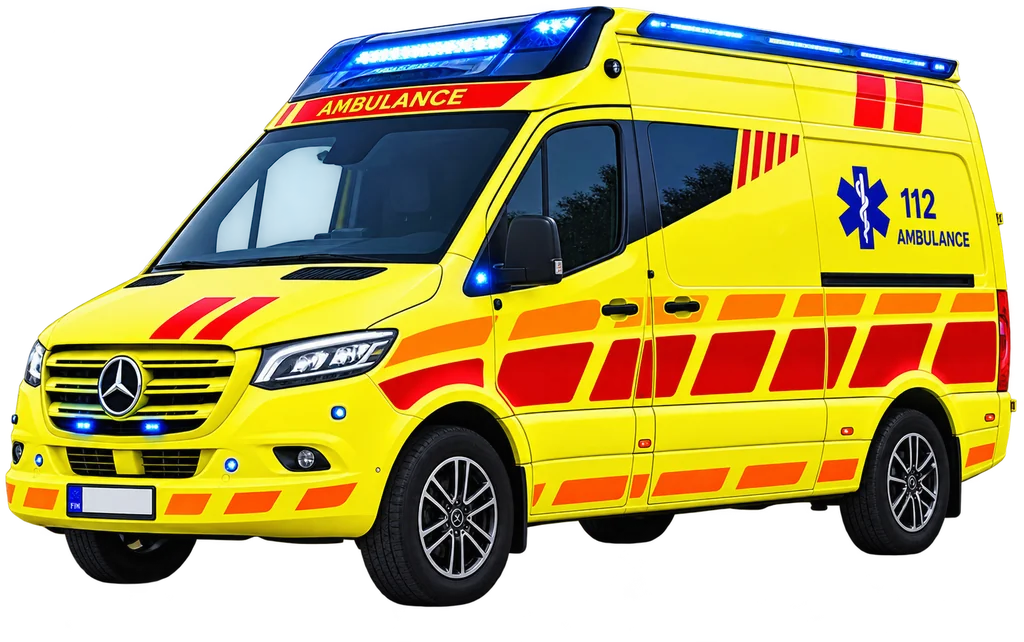
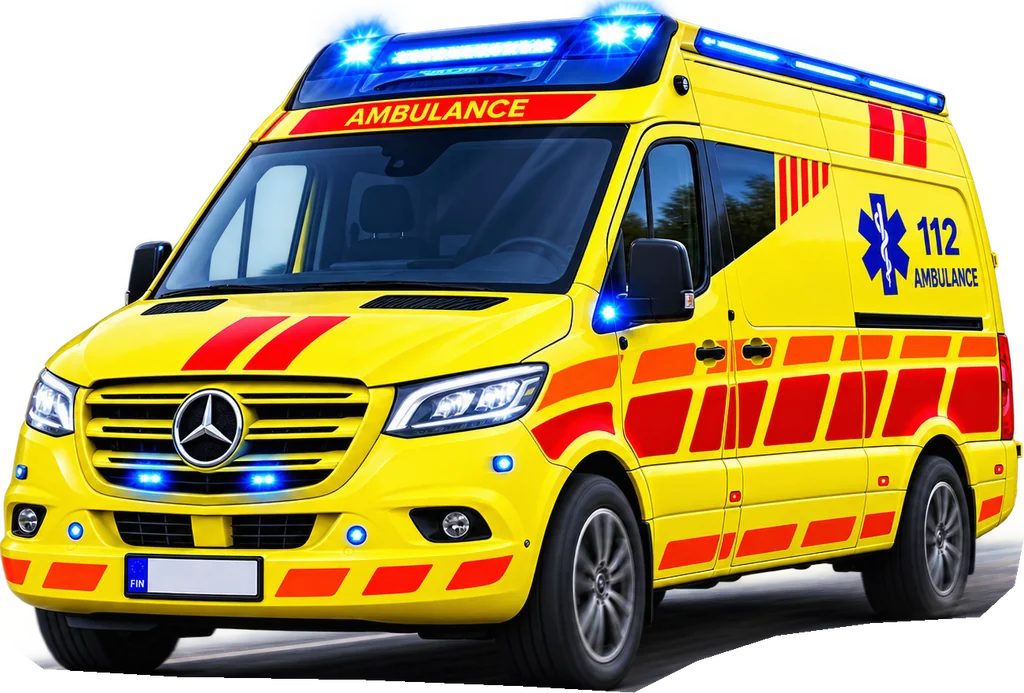
Sote-tarinan kysymykset ja kuvat muokattu

diff --git a/pelit/koulutusalat/sote.html b/pelit/koulutusalat/sote.html
@@ -170,14 +170,14 @@ TarinaYhteinen.alusta(setup, {
  },
  "kutsuKortit": [
   {
-   "tilanne": "Isoäiti tarvitsee joka aamu apua pukeutumisessa ja lääkkeiden ottamisessa. Hän haluaa asua kotona.",
-   "oikea": "Lähihoitaja",
-   "tutkinto": "Sosiaali- ja terveysalan perustutkinto (lähihoitaja)",
+   "tilanne": "Kahdeksannella luokalla on vuorossa koulun terveystarkastus. Siinä tarkistetaan kasvu ja voit kysyä omasta terveydestäsi.",
+   "oikea": "Kouluterveydenhoitaja",
+   "tutkinto": "Terveydenhoitaja (AMK), ammattikorkeakoulu",
    "vaihtoehdot": {
-    "Lähihoitaja": "Kotihoidon lähihoitaja käy asiakkaan luona, auttaa arjessa ja huolehtii lääkkeistä. Näin moni ikäihminen voi asua kotona pidempään.",
-    "Fysioterapeutti": "Fysioterapeutti auttaa liikkumisessa ja kuntoutuksessa. Päivittäinen apu kotona kuuluu kotihoidon lähihoitajalle.",
-    "Lääkäri": "Lääkäri määrää lääkkeet, mutta ei käy auttamassa joka aamu. Sen tekee lähihoitaja.",
-    "Sosionomi": "Sosionomi auttaa esimerkiksi palvelujen ja tukien hakemisessa. Arjen hoitotyön tekee lähihoitaja."
+    "Kouluterveydenhoitaja": "Kouluterveydenhoitaja tekee koulun terveystarkastukset ja rokotukset. Hänen kanssaan voi jutella myös jaksamisesta ja omasta terveydestä.",
+    "Lähihoitaja": "Lähihoitaja auttaa hoitotyössä esimerkiksi sairaalassa tai kotihoidossa. Koulun terveystarkastukset tekee terveydenhoitaja.",
+    "Kuraattori": "Kuraattori auttaa kaverisuhteiden ja koulunkäynnin pulmissa. Terveystarkastukset kuuluvat terveydenhoitajalle.",
+    "Fysioterapeutti": "Fysioterapeutti auttaa liikkumisessa ja kuntoutuksessa. Terveystarkastukset tekee terveydenhoitaja."
    }
   },
   {
@@ -247,14 +247,14 @@ TarinaYhteinen.alusta(setup, {
    }
   },
   {
-   "tilanne": "Perhe on juuri muuttanut uuteen kaupunkiin. He tarvitsevat apua asunnon, tukien ja palvelujen löytämisessä.",
-   "oikea": "Sosionomi",
-   "tutkinto": "Sosionomi (AMK), ammattikorkeakoulu",
+   "tilanne": "Kaverisuhteet ovat menneet solmuun, ja kouluun lähteminen tuntuu raskaalta. Kenen koulun ammattilaisen kanssa voit jutella asiasta?",
+   "oikea": "Kuraattori",
+   "tutkinto": "Sosionomi (AMK) tai muu soveltuva korkeakoulututkinto",
    "vaihtoehdot": {
-    "Lähihoitaja": "Lähihoitaja hoitaa ja auttaa arjessa, mutta palveluohjaus ja tukien hakeminen kuuluvat sosionomille.",
-    "Sairaanhoitaja": "Sairaanhoitaja hoitaa terveyttä. Asumisen ja tukien asiat hoitaa sosionomi.",
-    "Fysioterapeutti": "Fysioterapeutti auttaa liikkumisessa. Asunto- ja tukiasiat kuuluvat sosionomille.",
-    "Sosionomi": "Sosionomi ohjaa ja tukee ihmisiä arjen asioissa, esimerkiksi tukien ja palvelujen hakemisessa."
+    "Kuraattori": "Kuraattori on koulun sosiaalialan ammattilainen. Hän auttaa, kun kaverisuhteet, koulunkäynti tai kotiasiat painavat mieltä.",
+    "Kouluterveydenhoitaja": "Melkein! Myös terveydenhoitajalle voi kertoa, jos mieltä painaa. Kaverisuhteiden ja koulunkäynnin pulmissa koulun oma asiantuntija on kuraattori.",
+    "Fysioterapeutti": "Fysioterapeutti auttaa liikkumisessa ja kuntoutuksessa. Kaverisuhteiden pulmissa auttaa kuraattori.",
+    "Lähihoitaja": "Lähihoitaja työskentelee esimerkiksi sairaalassa tai kotihoidossa. Koulussa kaverisuhteiden pulmissa auttaa kuraattori."
    }
   }
  ]
@@ -584,10 +584,9 @@ Alla on esimerkkejä sosiaali- ja terveysalan koulutuksista eri puolilta Suomea.
 &lt;&lt;link &quot;Annan Ainolle vettä juotavaksi.&quot;&gt;&gt;&lt;&lt;set $aika += 10&gt;&gt;&lt;&lt;replace &quot;#valinnat&quot;&gt;&gt;&lt;div class=&quot;palaute&quot;&gt;&lt;p&gt;&lt;strong&gt;Aleksi pysäyttää sinut ystävällisesti.&lt;/strong&gt;&lt;/p&gt;&lt;p&gt;Jos Aino tarvitsee leikkauksen, vatsan pitää olla tyhjä. Siksi potilaalle ei anneta juotavaa ennen kuin tiedetään, mikä on vialla.&lt;/p&gt;&lt;p&gt;Aleksi mittaa verenpaineen. Se on matala. Hän nostaa Ainon jalat ylös ja antaa nestettä suoneen.&lt;/p&gt;&lt;p class=&quot;aika-kului&quot;&gt;Aikaa kului 10 min. Seuraavaan paikkaan siirtyminen vie 20 min.&lt;/p&gt;&lt;/div&gt;&lt;&lt;kiinnostus &quot;ensihoitaja&quot; &quot;Päivystys&quot; &quot;Miltä ensihoitajan työ näytti?&quot;&gt;&gt;&lt;&lt;/replace&gt;&gt;&lt;&lt;/link&gt;&gt;
 &lt;&lt;link &quot;Odotan hetken. Ehkä huimaus menee ohi itsestään.&quot;&gt;&gt;&lt;&lt;set $aika += 15&gt;&gt;&lt;&lt;replace &quot;#valinnat&quot;&gt;&gt;&lt;div class=&quot;palaute&quot;&gt;&lt;p&gt;&lt;strong&gt;Aino kalpenee lisää.&lt;/strong&gt;&lt;/p&gt;&lt;p&gt;Onneksi Aleksi huomaa sen itse. Ensihoidossa pienikin muutos kerrotaan heti, koska tilanne voi muuttua nopeasti.&lt;/p&gt;&lt;p&gt;Aleksi mittaa verenpaineen. Se on matala. Hän nostaa Ainon jalat ylös ja antaa nestettä suoneen.&lt;/p&gt;&lt;p class=&quot;aika-kului&quot;&gt;Aikaa kului 15 min. Seuraavaan paikkaan siirtyminen vie 20 min.&lt;/p&gt;&lt;/div&gt;&lt;&lt;kiinnostus &quot;ensihoitaja&quot; &quot;Päivystys&quot; &quot;Miltä ensihoitajan työ näytti?&quot;&gt;&gt;&lt;&lt;/replace&gt;&gt;&lt;&lt;/link&gt;&gt;
 &lt;/div&gt;
-</tw-passagedata><tw-passagedata pid="69" name="Päivystys" tags="scene-paivystys" position="1200,100" size="100,100">&lt;&lt;include &quot;HUD&quot;&gt;&gt;
+</tw-passagedata><tw-passagedata pid="69" name="Päivystys" tags="scene-paivystys" position="1200,100" size="100,100">&lt;&lt;run setup.taustakuva(&quot;../../images/koulutusalat/sote-paivystys-tausta.webp&quot;)&gt;&gt;&lt;&lt;include &quot;HUD&quot;&gt;&gt;
 &lt;p class=&quot;kohtaus-nro&quot;&gt;Kohtaus 4/6&lt;/p&gt;
 &lt;h2&gt;Päivystys&lt;/h2&gt;
-&lt;figure class=&quot;kohtaus-kuva&quot;&gt;&lt;img src=&quot;../../images/koulutusalat/sote-paivystys.webp&quot; alt=&quot;Hoitajat työntävät potilasta paarisängyllä kiireesti sairaalan päivystyksen käytävällä.&quot; width=&quot;447&quot; height=&quot;272&quot; loading=&quot;lazy&quot; decoding=&quot;async&quot;&gt;&lt;/figure&gt;
 &lt;p&gt;Sairaalan päivystyksessä Aino pääsee röntgeniin. Aulaan tulee samaan aikaan kolme uutta potilasta.&lt;/p&gt;
 &lt;p class=&quot;puhe&quot;&gt;&lt;strong&gt;Petra, sairaanhoitaja:&lt;/strong&gt; ”Minun pitää päättää, kuka pääsee hoitoon ensin. Kenet sinä ottaisit ensimmäisenä?”&lt;/p&gt;
 &lt;p class=&quot;valitse-ohje&quot;&gt;Mitä teet?&lt;/p&gt;
@@ -596,10 +595,9 @@ Alla on esimerkkejä sosiaali- ja terveysalan koulutuksista eri puolilta Suomea.
 &lt;&lt;link &quot;Miehen, jolla on puristavaa kipua rinnassa ja joka hikoilee.&quot;&gt;&gt;&lt;&lt;set $aika += 10&gt;&gt;&lt;&lt;set $piirre.tarkka += 2&gt;&gt;&lt;&lt;set $piirre.rauhallinen += 1&gt;&gt;&lt;&lt;replace &quot;#valinnat&quot;&gt;&gt;&lt;div class=&quot;palaute&quot;&gt;&lt;p&gt;&lt;strong&gt;Oikein!&lt;/strong&gt;&lt;/p&gt;&lt;p&gt;Rintakipu ja hikoilu voivat olla sydänkohtauksen merkkejä. Silloin jokainen minuutti on tärkeä.&lt;/p&gt;&lt;p&gt;Tätä kutsutaan hoidon kiireellisyyden arvioinniksi. Se on yksi sairaanhoitajan tärkeistä taidoista.&lt;/p&gt;&lt;p class=&quot;aika-kului&quot;&gt;Aikaa kului 10 min. Seuraavaan paikkaan siirtyminen vie 20 min.&lt;/p&gt;&lt;/div&gt;&lt;&lt;kiinnostus &quot;sairaanhoitaja&quot; &quot;Synnytysosasto&quot; &quot;Miltä sairaanhoitajan työ näytti?&quot;&gt;&gt;&lt;&lt;/replace&gt;&gt;&lt;&lt;/link&gt;&gt;
 &lt;&lt;link &quot;Kuumeisen lapsen, joka leikkii ja juo hyvin.&quot;&gt;&gt;&lt;&lt;set $aika += 15&gt;&gt;&lt;&lt;replace &quot;#valinnat&quot;&gt;&gt;&lt;div class=&quot;palaute&quot;&gt;&lt;p&gt;&lt;strong&gt;Lapsen kuume huolettaa, mutta leikkivä ja juova lapsi voi odottaa hetken.&lt;/strong&gt;&lt;/p&gt;&lt;p&gt;Petra ottaa ensin 60-vuotiaan miehen, jolla on puristavaa kipua rinnassa. Rintakipu voi olla sydänkohtaus, ja silloin jokainen minuutti on tärkeä.&lt;/p&gt;&lt;p class=&quot;aika-kului&quot;&gt;Aikaa kului 15 min. Seuraavaan paikkaan siirtyminen vie 20 min.&lt;/p&gt;&lt;/div&gt;&lt;&lt;kiinnostus &quot;sairaanhoitaja&quot; &quot;Synnytysosasto&quot; &quot;Miltä sairaanhoitajan työ näytti?&quot;&gt;&gt;&lt;&lt;/replace&gt;&gt;&lt;&lt;/link&gt;&gt;
 &lt;/div&gt;
-</tw-passagedata><tw-passagedata pid="70" name="Synnytysosasto" tags="scene-synnytys" position="1200,100" size="100,100">&lt;&lt;include &quot;HUD&quot;&gt;&gt;
+</tw-passagedata><tw-passagedata pid="70" name="Synnytysosasto" tags="scene-synnytys" position="1200,100" size="100,100">&lt;&lt;run setup.taustakuva(&quot;../../images/koulutusalat/sote-osasto-tausta.webp&quot;)&gt;&gt;&lt;&lt;include &quot;HUD&quot;&gt;&gt;
 &lt;p class=&quot;kohtaus-nro&quot;&gt;Kohtaus 5/6&lt;/p&gt;
 &lt;h2&gt;Synnytysosasto&lt;/h2&gt;
-&lt;figure class=&quot;kohtaus-kuva&quot;&gt;&lt;img src=&quot;../../images/koulutusalat/sote-osasto.webp&quot; alt=&quot;Valoisa sairaalaosaston käytävä, jossa on avoimet lasiovet ja potilashuoneiden ovia.&quot; width=&quot;720&quot; height=&quot;457&quot; loading=&quot;lazy&quot; decoding=&quot;async&quot;&gt;&lt;/figure&gt;
 &lt;p&gt;Ainon ranne on kipsattu. Sinut lähetetään viemään papereita synnytysosastolle. Siellä on juuri syntynyt vauva.&lt;/p&gt;
 &lt;p&gt;Vauvan isä katsoo vauvaa huolestuneena ja kysyy sinulta: ”Miksi vauvan kädet ja jalat ovat sinertävät? Onko jotain vialla?”&lt;/p&gt;
 &lt;p class=&quot;valitse-ohje&quot;&gt;Mitä teet?&lt;/p&gt;
@@ -608,10 +606,9 @@ Alla on esimerkkejä sosiaali- ja terveysalan koulutuksista eri puolilta Suomea.
 &lt;&lt;link &quot;Pyydän kätilö Hennan paikalle vastaamaan.&quot;&gt;&gt;&lt;&lt;set $aika += 10&gt;&gt;&lt;&lt;set $piirre.tiimi += 2&gt;&gt;&lt;&lt;set $piirre.tarkka += 1&gt;&gt;&lt;&lt;replace &quot;#valinnat&quot;&gt;&gt;&lt;div class=&quot;palaute&quot;&gt;&lt;p&gt;&lt;strong&gt;Hyvin toimittu!&lt;/strong&gt;&lt;/p&gt;&lt;p&gt;Henna selittää: vastasyntyneen kädet ja jalat ovat usein sinertävät ensimmäisinä päivinä, koska verenkierto vasta tasaantuu. Kasvot ja vartalo ovat punakat, ja se on hyvä merkki.&lt;/p&gt;&lt;p&gt;Kun et tiedä vastausta, ohjaa kysymys oikealle ammattilaiselle.&lt;/p&gt;&lt;p class=&quot;aika-kului&quot;&gt;Aikaa kului 10 min. Seuraavaan paikkaan siirtyminen vie 20 min.&lt;/p&gt;&lt;/div&gt;&lt;&lt;kiinnostus &quot;katilo&quot; &quot;Rauhallinen huone&quot; &quot;Miltä kätilön työ näytti?&quot;&gt;&gt;&lt;&lt;/replace&gt;&gt;&lt;&lt;/link&gt;&gt;
 &lt;&lt;link &quot;Etsin vastauksen netistä puhelimella.&quot;&gt;&gt;&lt;&lt;set $aika += 15&gt;&gt;&lt;&lt;replace &quot;#valinnat&quot;&gt;&gt;&lt;div class=&quot;palaute&quot;&gt;&lt;p&gt;&lt;strong&gt;Netistä löytyy kymmeniä pelottavia vastauksia.&lt;/strong&gt;&lt;/p&gt;&lt;p&gt;Kätilö Henna tulee paikalle ja selittää: vastasyntyneen kädet ja jalat ovat usein sinertävät ensimmäisinä päivinä, koska verenkierto vasta tasaantuu. Kasvot ja vartalo ovat punakat, ja se on hyvä merkki.&lt;/p&gt;&lt;p class=&quot;aika-kului&quot;&gt;Aikaa kului 15 min. Seuraavaan paikkaan siirtyminen vie 20 min.&lt;/p&gt;&lt;/div&gt;&lt;&lt;kiinnostus &quot;katilo&quot; &quot;Rauhallinen huone&quot; &quot;Miltä kätilön työ näytti?&quot;&gt;&gt;&lt;&lt;/replace&gt;&gt;&lt;&lt;/link&gt;&gt;
 &lt;/div&gt;
-</tw-passagedata><tw-passagedata pid="71" name="Rauhallinen huone" tags="scene-nuoret" position="1200,100" size="100,100">&lt;&lt;include &quot;HUD&quot;&gt;&gt;
+</tw-passagedata><tw-passagedata pid="71" name="Rauhallinen huone" tags="scene-nuoret" position="1200,100" size="100,100">&lt;&lt;run setup.taustakuva(&quot;../../images/koulutusalat/sote-osasto-tausta.webp&quot;)&gt;&gt;&lt;&lt;include &quot;HUD&quot;&gt;&gt;
 &lt;p class=&quot;kohtaus-nro&quot;&gt;Kohtaus 6/6&lt;/p&gt;
 &lt;h2&gt;Päivystyksen rauhallinen huone&lt;/h2&gt;
-&lt;figure class=&quot;kohtaus-kuva&quot;&gt;&lt;img src=&quot;../../images/koulutusalat/sote-osasto.webp&quot; alt=&quot;Valoisa sairaalaosaston käytävä, jossa on avoimet lasiovet ja potilashuoneiden ovia.&quot; width=&quot;720&quot; height=&quot;457&quot; loading=&quot;lazy&quot; decoding=&quot;async&quot;&gt;&lt;/figure&gt;
 &lt;p&gt;Ilta on jo pitkällä. Päivystykseen tulee 15-vuotias Sara äitinsä kanssa. Saran sydän hakkaa, kädet tärisevät ja hengitys kulkee nopeasti.&lt;/p&gt;
 &lt;p&gt;Lääkäri on tutkinut Saran: kyse on paniikkikohtauksesta. Se on pelottava, mutta ei vaarallinen.&lt;/p&gt;
 &lt;p class=&quot;puhe&quot;&gt;&lt;strong&gt;Jesse, lähihoitaja:&lt;/strong&gt; ”Mennään Saran kanssa rauhalliseen huoneeseen. Miten auttaisit häntä?”&lt;/p&gt;
@@ -650,7 +647,7 @@ Alla on esimerkkejä sosiaali- ja terveysalan koulutuksista eri puolilta Suomea.
 &lt;div class=&quot;kutsu-ohje&quot;&gt;
 &lt;p class=&quot;alku-tag&quot;&gt;Tehtävä · noin 25 min&lt;/p&gt;
 &lt;h2 class=&quot;alku-otsikko&quot;&gt;Kenet kutsut paikalle?&lt;/h2&gt;
-&lt;p&gt;Tarinassa tapasit kuusi sote-alan ammattilaista. Alalla on kuitenkin paljon muitakin ammatteja: kotona, terveyskeskuksessa, laboratoriossa ja sairaalan kulissien takana.&lt;/p&gt;
+&lt;p&gt;Tarinassa tapasit kuusi sote-alan ammattilaista. Alalla on kuitenkin paljon muitakin ammatteja: koulussa, terveyskeskuksessa, laboratoriossa ja sairaalan kulissien takana.&lt;/p&gt;
 &lt;p&gt;Saat &lt;strong&gt;8 tilannetta&lt;/strong&gt;. Jokaisessa teet kaksi asiaa:&lt;/p&gt;
 &lt;ol class=&quot;kutsu-askeleet&quot;&gt;&lt;li&gt;Valitse ammattilainen, joka auttaa tilanteessa.&lt;/li&gt;&lt;li&gt;Kirjoita yhdellä lauseella, miksi valitsit hänet.&lt;/li&gt;&lt;/ol&gt;
 &lt;p&gt;Sitten näet, osuitko oikeaan. Lopuksi lataat vastauksesi ja palautat ne Classroomiin.&lt;/p&gt;

diff --git a/pelit/koulutusalat/tarina-yhteinen.js b/pelit/koulutusalat/tarina-yhteinen.js
@@ -33,6 +33,8 @@
     var ALKU = (D.kello && D.kello.alku) || 0;
     var RAJA = (D.kello && typeof D.kello.raja === "number") ? D.kello.raja : null;
     var KUTSU_KEY = D.ala + "_kutsu_v1";
+    /* Tallennus on sidottu korttisarjaan: jos kortit vaihtuvat, vanhat vastaukset hylätään */
+    var KORTTI_SIG = KORTIT.map(function (k) { return k.oikea; }).join("|");
     var $ = window.jQuery;
 
     /* --- 3D-tausta: kohtaus passagen tagista (scene-*) --- */
@@ -74,6 +76,28 @@
         var b = document.getElementById("nayta-tehdas");
         if (b) { b.setAttribute("aria-pressed", "false"); b.textContent = KATSO; }
       }
+    });
+
+    /* --- Kohtauksen taustakuva (koko ruutu, 3D-taustan päällä) --- */
+    function taustaElementti() {
+      var el = document.getElementById("kohtaus-taustakuva");
+      if (!el) {
+        el = document.createElement("div");
+        el.id = "kohtaus-taustakuva"; el.setAttribute("aria-hidden", "true");
+        var canvas = document.getElementById("tausta3d");
+        if (canvas && canvas.parentNode) canvas.parentNode.insertBefore(el, canvas.nextSibling);
+        else document.body.insertBefore(el, document.body.firstChild);
+      }
+      return el;
+    }
+    setup.taustakuva = function (src) {
+      var el = taustaElementti();
+      el.style.backgroundImage = 'url("' + src + '")';
+      el.classList.add("nakyy");
+    };
+    $(document).on(":passagestart", function () {
+      var el = document.getElementById("kohtaus-taustakuva");
+      if (el) el.classList.remove("nakyy");
     });
 
     /* --- Kannen Käynnistä-painike --- */
@@ -212,7 +236,7 @@
       if (!v.kutsu || !Array.isArray(v.kutsu.vastaukset)) {
         var tallessa = null;
         try { tallessa = JSON.parse(localStorage.getItem(KUTSU_KEY) || "null"); } catch (e) {}
-        v.kutsu = (tallessa && Array.isArray(tallessa.vastaukset)) ? tallessa : { vastaukset: [] };
+        v.kutsu = (tallessa && Array.isArray(tallessa.vastaukset) && tallessa.sig === KORTTI_SIG) ? tallessa : { vastaukset: [], sig: KORTTI_SIG };
       }
       return v.kutsu;
     }
@@ -348,7 +372,7 @@
     window.tyhjennaKaikki = function (nappi) {
       try { localStorage.removeItem(KUTSU_KEY); } catch (e) {}
       var v = V();
-      v.kutsu = { vastaukset: [] };
+      v.kutsu = { vastaukset: [], sig: KORTTI_SIG };
       v.korttiNimi = ""; v.korttiTop = []; v.aika = 0;
       v.piirre = {}; Object.keys(PIIRTEET).forEach(function (a) { v.piirre[a] = 0; });
       v.kiinn = {}; Object.keys(AMMATIT).forEach(function (a) { v.kiinn[a] = 0; });

diff --git a/pelit/koulutusalat/tausta3d.js b/pelit/koulutusalat/tausta3d.js
@@ -683,9 +683,10 @@ const MAAILMAT = {
       const palikat = g.children.filter((o) => o !== valo);
       new THREE.TextureLoader().load(new URL("../../images/koulutusalat/ambulanssi.webp", import.meta.url).href, (tx) => {
         tx.colorSpace = THREE.SRGBColorSpace;
-        const kuva = new THREE.Sprite(new THREE.SpriteMaterial({ map: tx, alphaTest: 0.4 }));
-        kuva.scale.set(6.2, 3.9, 1);
-        kuva.position.set(0.2, 1.95, 0);
+        const kuva = new THREE.Sprite(new THREE.SpriteMaterial({ map: tx, alphaTest: 0.5 }));
+        kuva.center.set(0.5, 0.02);          // pyörien alareuna tien pintaan
+        kuva.scale.set(5.8, 5.8 * 693 / 1024, 1);
+        kuva.position.set(0, 0.02, 0);
         g.add(kuva);
         palikat.forEach((o) => { o.visible = false; });
         if (piirraUudelleen) piirraUudelleen();
@@ -878,11 +879,11 @@ const MAAILMAT = {
     }
 
     const kohtaukset = {
-      kansi:      { kamera: [-11, 4.5, 16],  kohde: [4, 3.5, -6],     tila: { vilkut: true, ajaa: false } },
-      ilta:       { kamera: [-2, 7, 20],     kohde: [4, 3, -6],       tila: { vilkut: true } },
+      kansi:      { kamera: [-7, 3.6, 7.5],  kohde: [11, 2.8, -3],    tila: { vilkut: true, ajaa: false } },
+      ilta:       { kamera: [-7, 4.5, 8],    kohde: [12, 2.4, -2],    tila: { vilkut: true } },
       hatakeskus: { kamera: [-36.5, 2.8, 2.5], kohde: [-40, 3, -9],    tila: {} },
       koti:       { kamera: [-20.5, 3.2, 39.5], kohde: [-25, 1.2, 32], tila: { vilkut: true } },
-      ambulanssi: { kamera: [16.5, 3.4, 9.5], kohde: [9.5, 1.5, 3],   tila: { vilkut: true, ajaa: true } },
+      ambulanssi: { kamera: [2.5, 2.2, 5.2], kohde: [11, 1.6, 2.6],   tila: { vilkut: true, ajaa: true } },
       paivystys:  { kamera: [40.6, 2.1, -26.6], kohde: [39.6, 1.3, -44],   tila: {} },
       synnytys:   { kamera: [59.5, 2.6, -26.5], kohde: [55.5, 1.1, -33], tila: {} },
       nuoret:     { kamera: [73, 2.4, -27.5], kohde: [70, 1.2, -33],  tila: {} },

diff --git a/pelit/koulutusalat/tarina-yhteinen.css b/pelit/koulutusalat/tarina-yhteinen.css
@@ -1035,3 +1035,9 @@ html[data-tausta="tehdas"] #nayta-tehdas { display: none; }
   border-radius: 16px; border: 1px solid rgba(var(--a1-rgb), .35); box-shadow: 0 10px 30px rgba(0,0,0,.35); }
 /* SugarCuben piilotettu dialogi ei saa levittää sivua sivusuunnassa */
 html, body { overflow-x: hidden; }
+
+/* Kohtauksen taustakuva: koko ruudun valokuva 3D-taustan päällä, tarinapaneelin alla */
+#kohtaus-taustakuva { position: fixed; inset: 0; z-index: 0; pointer-events: none; opacity: 0;
+  background: center / cover no-repeat; transition: opacity .6s ease; }
+#kohtaus-taustakuva.nakyy { opacity: 1; }
+@media (prefers-reduced-motion: reduce) { #kohtaus-taustakuva { transition: none; } }

diff --git a/tools/koulutusala-tarina/alat/sote.py b/tools/koulutusala-tarina/alat/sote.py
@@ -92,8 +92,7 @@ KOHTAUKSET = [
             palaute="<p><strong>Aino kalpenee lisää.</strong></p><p>Onneksi Aleksi huomaa sen itse. Ensihoidossa pienikin muutos kerrotaan heti, koska tilanne voi muuttua nopeasti.</p><p>Aleksi mittaa verenpaineen. Se on matala. Hän nostaa Ainon jalat ylös ja antaa nestettä suoneen.</p>"),
       ]),
  dict(nimi="Päivystys", tausta="paivystys", otsikko="Päivystys", avain="sairaanhoitaja",
-      kuva=dict(src="../../images/koulutusalat/sote-paivystys.webp", leveys=447, korkeus=272,
-                alt="Hoitajat työntävät potilasta paarisängyllä kiireesti sairaalan päivystyksen käytävällä."),
+      taustakuva="../../images/koulutusalat/sote-paivystys-tausta.webp",
       kysymys="Miltä sairaanhoitajan työ näytti?",
       johdanto="""<p>Sairaalan päivystyksessä Aino pääsee röntgeniin. Aulaan tulee samaan aikaan kolme uutta potilasta.</p>
 <p class="puhe"><strong>Petra, sairaanhoitaja:</strong> ”Minun pitää päättää, kuka pääsee hoitoon ensin. Kenet sinä ottaisit ensimmäisenä?”</p>""",
@@ -106,8 +105,7 @@ KOHTAUKSET = [
             palaute="<p><strong>Lapsen kuume huolettaa, mutta leikkivä ja juova lapsi voi odottaa hetken.</strong></p><p>Petra ottaa ensin 60-vuotiaan miehen, jolla on puristavaa kipua rinnassa. Rintakipu voi olla sydänkohtaus, ja silloin jokainen minuutti on tärkeä.</p>"),
       ]),
  dict(nimi="Synnytysosasto", tausta="synnytys", otsikko="Synnytysosasto", avain="katilo",
-      kuva=dict(src="../../images/koulutusalat/sote-osasto.webp", leveys=720, korkeus=457,
-                alt="Valoisa sairaalaosaston käytävä, jossa on avoimet lasiovet ja potilashuoneiden ovia."),
+      taustakuva="../../images/koulutusalat/sote-osasto-tausta.webp",
       kysymys="Miltä kätilön työ näytti?",
       johdanto="""<p>Ainon ranne on kipsattu. Sinut lähetetään viemään papereita synnytysosastolle. Siellä on juuri syntynyt vauva.</p>
 <p>Vauvan isä katsoo vauvaa huolestuneena ja kysyy sinulta: ”Miksi vauvan kädet ja jalat ovat sinertävät? Onko jotain vialla?”</p>""",
@@ -120,8 +118,7 @@ KOHTAUKSET = [
             palaute="<p><strong>Netistä löytyy kymmeniä pelottavia vastauksia.</strong></p><p>Kätilö Henna tulee paikalle ja selittää: vastasyntyneen kädet ja jalat ovat usein sinertävät ensimmäisinä päivinä, koska verenkierto vasta tasaantuu. Kasvot ja vartalo ovat punakat, ja se on hyvä merkki.</p>"),
       ]),
  dict(nimi="Rauhallinen huone", tausta="nuoret", otsikko="Päivystyksen rauhallinen huone", avain="mielenterveys",
-      kuva=dict(src="../../images/koulutusalat/sote-osasto.webp", leveys=720, korkeus=457,
-                alt="Valoisa sairaalaosaston käytävä, jossa on avoimet lasiovet ja potilashuoneiden ovia."),
+      taustakuva="../../images/koulutusalat/sote-osasto-tausta.webp",
       kysymys="Miltä mielenterveystyön lähihoitajan työ näytti?",
       johdanto="""<p>Ilta on jo pitkällä. Päivystykseen tulee 15-vuotias Sara äitinsä kanssa. Saran sydän hakkaa, kädet tärisevät ja hengitys kulkee nopeasti.</p>
 <p>Lääkäri on tutkinut Saran: kyse on paniikkikohtauksesta. Se on pelottava, mutta ei vaarallinen.</p>
@@ -176,16 +173,16 @@ AMMATIT = {
 LAHI = "Sosiaali- ja terveysalan perustutkinto (lähihoitaja)"
 AMK = "Ammattikorkeakoulu (AMK)"
 
-KUTSU_JOHDANTO = "Tarinassa tapasit kuusi sote-alan ammattilaista. Alalla on kuitenkin paljon muitakin ammatteja: kotona, terveyskeskuksessa, laboratoriossa ja sairaalan kulissien takana."
+KUTSU_JOHDANTO = "Tarinassa tapasit kuusi sote-alan ammattilaista. Alalla on kuitenkin paljon muitakin ammatteja: koulussa, terveyskeskuksessa, laboratoriossa ja sairaalan kulissien takana."
 
 KUTSU_KORTIT = [
- {"tilanne": "Isoäiti tarvitsee joka aamu apua pukeutumisessa ja lääkkeiden ottamisessa. Hän haluaa asua kotona.",
-  "oikea": "Lähihoitaja", "tutkinto": LAHI,
+ {"tilanne": "Kahdeksannella luokalla on vuorossa koulun terveystarkastus. Siinä tarkistetaan kasvu ja voit kysyä omasta terveydestäsi.",
+  "oikea": "Kouluterveydenhoitaja", "tutkinto": "Terveydenhoitaja (AMK), ammattikorkeakoulu",
   "vaihtoehdot": {
-   "Lähihoitaja": "Kotihoidon lähihoitaja käy asiakkaan luona, auttaa arjessa ja huolehtii lääkkeistä. Näin moni ikäihminen voi asua kotona pidempään.",
-   "Fysioterapeutti": "Fysioterapeutti auttaa liikkumisessa ja kuntoutuksessa. Päivittäinen apu kotona kuuluu kotihoidon lähihoitajalle.",
-   "Lääkäri": "Lääkäri määrää lääkkeet, mutta ei käy auttamassa joka aamu. Sen tekee lähihoitaja.",
-   "Sosionomi": "Sosionomi auttaa esimerkiksi palvelujen ja tukien hakemisessa. Arjen hoitotyön tekee lähihoitaja."}},
+   "Kouluterveydenhoitaja": "Kouluterveydenhoitaja tekee koulun terveystarkastukset ja rokotukset. Hänen kanssaan voi jutella myös jaksamisesta ja omasta terveydestä.",
+   "Lähihoitaja": "Lähihoitaja auttaa hoitotyössä esimerkiksi sairaalassa tai kotihoidossa. Koulun terveystarkastukset tekee terveydenhoitaja.",
+   "Kuraattori": "Kuraattori auttaa kaverisuhteiden ja koulunkäynnin pulmissa. Terveystarkastukset kuuluvat terveydenhoitajalle.",
+   "Fysioterapeutti": "Fysioterapeutti auttaa liikkumisessa ja kuntoutuksessa. Terveystarkastukset tekee terveydenhoitaja."}},
  {"tilanne": "Treeneissä nilkka nyrjähti. Lääkärin mukaan mikään ei murtunut, mutta nilkka pitää kuntouttaa.",
   "oikea": "Fysioterapeutti", "tutkinto": "Fysioterapeutti (AMK), ammattikorkeakoulu",
   "vaihtoehdot": {
@@ -228,13 +225,13 @@ KUTSU_KORTIT = [
    "Hätäkeskuspäivystäjä": "Hätäkeskuspäivystäjä vastaa numeroon 112, kysyy tärkeät asiat ja lähettää avun paikalle.",
    "Lääkäri": "Lääkäri hoitaa potilasta sairaalassa. Hätäpuheluun vastaa hätäkeskuspäivystäjä.",
    "Sairaanhoitaja": "Sairaanhoitaja työskentelee esimerkiksi sairaalassa. Hätäpuheluun vastaa hätäkeskuspäivystäjä."}},
- {"tilanne": "Perhe on juuri muuttanut uuteen kaupunkiin. He tarvitsevat apua asunnon, tukien ja palvelujen löytämisessä.",
-  "oikea": "Sosionomi", "tutkinto": "Sosionomi (AMK), ammattikorkeakoulu",
+ {"tilanne": "Kaverisuhteet ovat menneet solmuun, ja kouluun lähteminen tuntuu raskaalta. Kenen koulun ammattilaisen kanssa voit jutella asiasta?",
+  "oikea": "Kuraattori", "tutkinto": "Sosionomi (AMK) tai muu soveltuva korkeakoulututkinto",
   "vaihtoehdot": {
-   "Lähihoitaja": "Lähihoitaja hoitaa ja auttaa arjessa, mutta palveluohjaus ja tukien hakeminen kuuluvat sosionomille.",
-   "Sairaanhoitaja": "Sairaanhoitaja hoitaa terveyttä. Asumisen ja tukien asiat hoitaa sosionomi.",
-   "Fysioterapeutti": "Fysioterapeutti auttaa liikkumisessa. Asunto- ja tukiasiat kuuluvat sosionomille.",
-   "Sosionomi": "Sosionomi ohjaa ja tukee ihmisiä arjen asioissa, esimerkiksi tukien ja palvelujen hakemisessa."}},
+   "Kuraattori": "Kuraattori on koulun sosiaalialan ammattilainen. Hän auttaa, kun kaverisuhteet, koulunkäynti tai kotiasiat painavat mieltä.",
+   "Kouluterveydenhoitaja": "Melkein! Myös terveydenhoitajalle voi kertoa, jos mieltä painaa. Kaverisuhteiden ja koulunkäynnin pulmissa koulun oma asiantuntija on kuraattori.",
+   "Fysioterapeutti": "Fysioterapeutti auttaa liikkumisessa ja kuntoutuksessa. Kaverisuhteiden pulmissa auttaa kuraattori.",
+   "Lähihoitaja": "Lähihoitaja työskentelee esimerkiksi sairaalassa tai kotihoidossa. Koulussa kaverisuhteiden pulmissa auttaa kuraattori."}},
 ]
 
 LOPPU_TEKSTI = "Seurasit yhtä iltaa hätäpuhelusta sairaalaan ja ratkaisit kahdeksan tilannetta. Samalla tutustuit yli kymmeneen sote-alan ammattiin."

diff --git a/tools/koulutusala-tarina/rakenna_tarina.py b/tools/koulutusala-tarina/rakenna_tarina.py
@@ -55,7 +55,8 @@ def kuva_html(k):
 
 def kohtaus_passage(k, nro, yht, seuraava, A):
     vv = "\n".join(valinta(v, k["avain"], seuraava, k["kysymys"], A.get("siirtymaTeksti", "")) for v in k["valinnat"])
-    return f"""<<include "HUD">>
+    tk = f'<<run setup.taustakuva("{k["taustakuva"]}")>>' if k.get("taustakuva") else ""
+    return f"""{tk}<<include "HUD">>
 <p class="kohtaus-nro">Kohtaus {nro}/{yht}</p>
 <h2>{k['otsikko']}</h2>
 {kuva_html(k)}{k['johdanto']}
